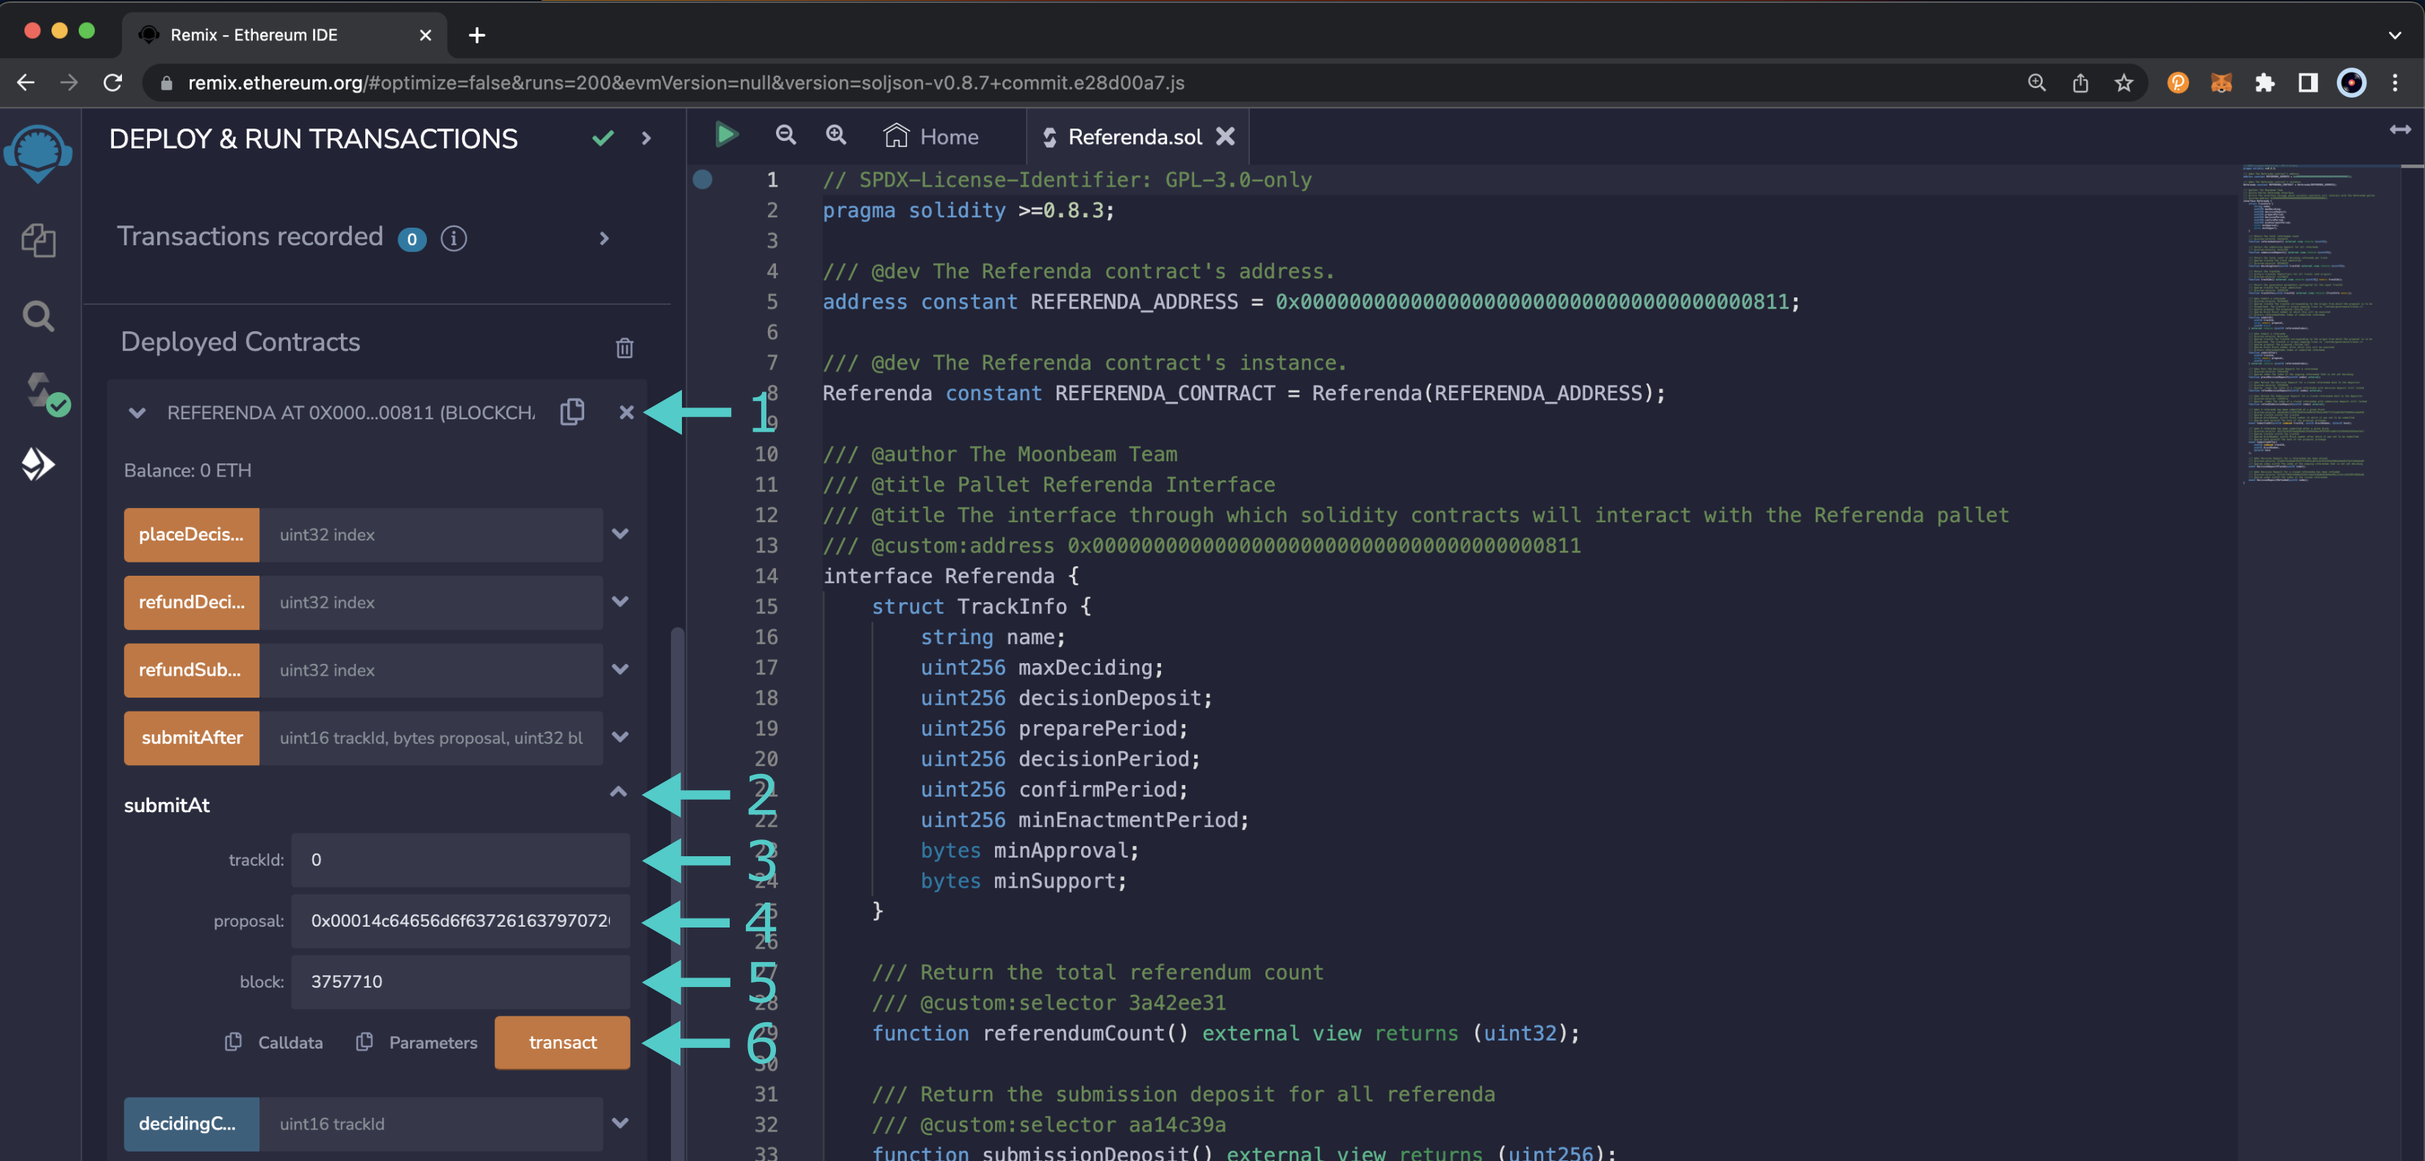
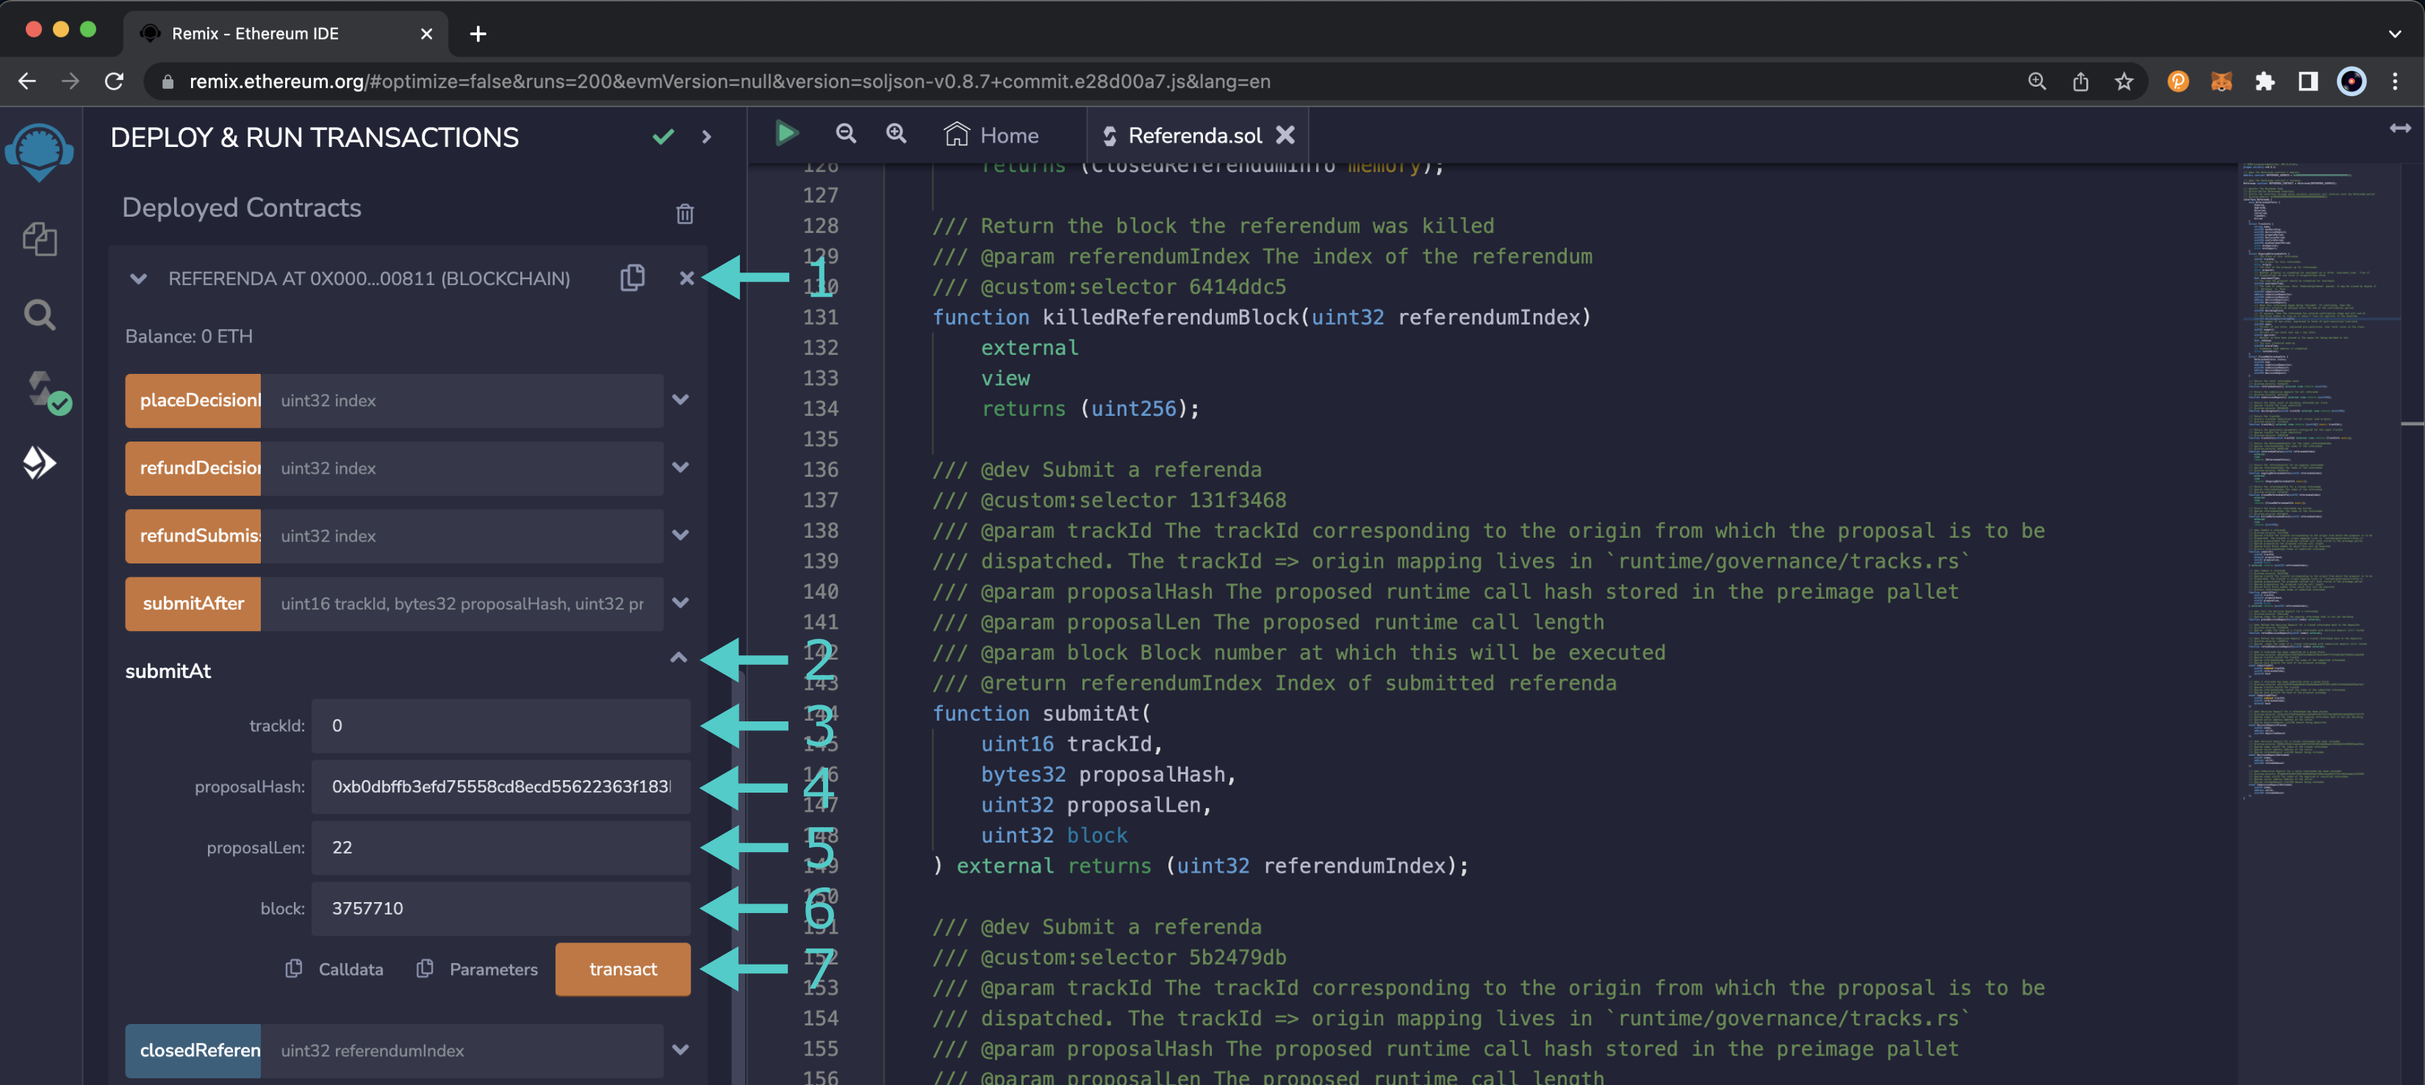
add in changes to opengov for runtime 2200

diff --git a/builders/pallets-precompiles/precompiles/referenda.md b/builders/pallets-precompiles/precompiles/referenda.md
@@ -34,21 +34,77 @@ The Referenda Precompile is located at the following address:
 [`Referenda.sol`](https://github.com/PureStake/moonbeam/blob/master/precompiles/referenda/Referenda.sol){target=_blank} is a Solidity interface that allows developers to interact with the precompile's methods. The methods are as follows:
 
 - **referendumCount**() - a read-only function that returns the total referendum count
-- **submissionDeposit**() - a read-only function that returns the Submission Deposit for all referenda
-- **decidingCount**(*uint16* trackId) - a read-only function that returns the total count of deciding referenda of a given track
-- **trackIds**() - a read-only function that returns a list of the Track IDs for all tracks (and origins)
-- **trackInfo**(*uint16* trackId) - a read-only function that returns the governance parameters configured for a given Track ID
-- **submitAt**(*uint16* trackId, *bytes memory* proposal, *uint32* block) - submits a referenda given a Track ID corresponding to the origin from which the proposal is to be dispatched, the proposed runtime call, and the block number *at* which this will be executed
-- **submitAfter**(*uint16* trackId, *bytes memory* proposal, *uint32* block) - submits a referenda given a Track ID corresponding to the origin from which the proposal is to be dispatched, the proposed runtime call, and the block number *after* which this will be executed
+- **submissionDeposit**() - a read-only function that returns the Submission Deposit required for each referendum
+- **decidingCount**(*uint16* trackId) - a read-only function that returns the total count of deciding referenda for a given Track
+- **trackIds**() - a read-only function that returns a list of the Track IDs for all Tracks (and Origins)
+- **trackInfo**(*uint16* trackId) - a read-only function that returns the following governance parameters configured for a given Track ID:
+
+     - *string* name - the name of the Track
+     - *uint256* maxDeciding - the maximum number of referenda that can be decided on at once
+     - *uint256* decisionDeposit - the amount of the Decision Deposit 
+     - *uint256* preparePeriod - the duration of the Prepare Period
+     - *uint256* decisionPeriod - the duration of the Decide Period
+     - *uint256* confirmPeriod - the duration of the Confirm Period
+     - *uint256* minEnactmentPeriod - the minimum amount of time the Enactment Period must be
+     - *bytes* minApproval - the minimum "Aye" votes as a percentage of overall Conviction-weighted votes needed for an approval
+     - *bytes* minSupport - minimum number of "Aye" votes, not taking into consideration Conviction-weighted votes, needed as a percent of the total supply needed for an approval
+
+- **referendumStatus**(*uint32* referendumIndex) - a read-only function that returns the status for a given referendum. The `ReferendumStatus` enum defines the possible statuses:
+
+     ```
+     enum ReferendumStatus {
+          Ongoing,
+          Approved,
+          Rejected,
+          Cancelled,
+          TimedOut,
+          Killed
+     }
+     ```
+
+- **ongoingReferendumInfo**(*uint32* referendumIndex) - a read-only function that returns the following information pertaining to an ongoing referendum:
+
+     - *uint16* trackId - the Track of this referendum
+     - *bytes* origin - the Origin for this referendum
+     - *bytes* proposal - the hash of the proposal up for referendum
+     - *bool* enactmentType - `true` if the proposal is scheduled to be dispatched *at* enactment time and `false` if *after* enactment time
+     - *uint256* enactmentTime - the time the proposal should be scheduled for enactment
+     - *uint256* submissionTime -  the time of submission
+     - *address* submissionDepositor - the address of the depositor for the Submission Deposit
+     - *uint256* submissionDeposit - the amount of the Submission Deposit
+     - *address* decisionDepositor - the address of the depositor for the Decision Deposit
+     - *uint256* decisionDeposit - the amount of the Decision Deposit
+     - *uint256* decidingSince - when this referendum entered the Decide Period. If confirming, then the end will actually be delayed until the end of the Confirm Period
+     - *uint256* decidingConfirmingEnd - when this referendum is scheduled to leave the Confirm Period as long as it doesn't lose its approval in the meantime
+     - *uint256* ayes - the number of "Aye" votes, expressed in terms of post-conviction lock-vote
+     - *uint32* support - percent of "Aye" votes, expressed pre-conviction, over total votes in the class
+     - *uint32* approval - percent of "Aye" votes over "Aye" and "Nay" votes
+     - *bool* inQueue - `true` if this referendum has been placed in the queue for being decided or `false` if not
+     - *uint256* alarmTime - the next scheduled wake-up
+     - *bytes* taskAddress - scheduler task address if scheduled
+
+- **closedReferendumInfo**(*uint32* referendumIndex) - a read-only function that returns the following information pertaining to a closed referendum:
+
+     - *uint256* end - when the referendum ended
+     - *address* submissionDepositor - the address of the depositor for the Submission Deposit
+     - *uint256* submissionDeposit - the amount of the Submission Deposit
+     - *address* decisionDepositor - the address of the depositor for the Decision Deposit
+     - *uint256* decisionDeposit - the amount of the Decision Deposit
+
+- **killedReferendumBlock**(*uint32* referendumIndex) - a read-only function that returns the block a given referendum was killed
+- **submitAt**(*uint16* trackId, *bytes32* proposalHash, *uint32* proposalLen, *uint32* block) - submits a referendum given a Track ID corresponding to the origin from which the proposal is to be dispatched, the preimage hash of the proposed runtime call, the length of the proposal, and the block number *at* which this will be executed. Returns the referendum index of the submitted referendum
+- **submitAfter**(*uint16* trackId, *bytes32* proposalHash, *uint32* proposalLen, *uint32* block) - submits a referendum given a Track ID corresponding to the origin from which the proposal is to be dispatched, the preimage hash of the proposed runtime call, the length of the proposal, and the block number *after* which this will be executed. Returns the referendum index of the submitted referendum
 - **placeDecisionDeposit**(*uint32* index) - posts the Decision Deposit for a referendum given the index of the going referendum
 - **refundDecisionDeposit**(*uint32* index) - refunds the Decision Deposit for a closed referendum back to the depositor given the index of the closed referendum in which the Decision Deposit is still locked
+- **refundSubmissionDeposit**(*uint32* index) - refunds the Submission Deposit for a closed referendum back to the depositor given the index of a closed referendum
 
 The interface also includes the following events:
 
-- **SubmittedAt**(*uint16 indexed* trackId, *uint32* blockNumber, *bytes32* hash) - emitted when a referenda has been submitted *at* a given block
-- **SubmittedAfter**(*uint16 indexed* trackId, *uint32* blockNumber, *bytes32* hash) - emitted when a referenda has been submitted *after* a given block
-- **DecisionDepositPlaced**(*uint32* index) - emitted when a Decision Deposit for a referendum has been placed
-- **DecisionDepositRefunded**(*uint32* index) - emitted when a Decision Deposit for a closed referendum has been refunded
+- **SubmittedAt**(*uint16 indexed* trackId, *uint32* referendumIndex, *bytes32* hash) - emitted when a referenda has been submitted *at* a given block
+- **SubmittedAfter**(*uint16 indexed* trackId, *uint32* referendumIndex, *bytes32* hash) - emitted when a referenda has been submitted *after* a given block
+- **DecisionDepositPlaced**(*uint32* index, *address* caller, *uint256* depositedAmount) - emitted when a Decision Deposit for a referendum has been placed
+- **DecisionDepositRefunded**(*uint32* index, *address* caller, *uint256* refundedAmount) - emitted when a Decision Deposit for a closed referendum has been refunded
+- **SubmissionDepositRefunded**(*uint32* index, *address* caller, *uint256* refundedAmount) - emitted whena Submission Deposit for a valid referendum has been refunded
 
 ## Interact with the Solidity Interface {: #interact-with-the-solidity-interface }
 
@@ -88,16 +144,19 @@ The below example is demonstrated on Moonbase Alpha, however, similar steps can 
 
 In order to submit a proposal, you should have already submitted the preimage hash for the proposal. If you have not done so, please follow the steps outlined in the [Preimage Precompile](/builders/pallets-precompiles/precompiles/preimage){target=_blank} documentation. There are two methods that can be used to submit a proposal: `submitAt` and `submitAfter`. The `submitAt` function submits a proposal to be executed *at* a given block and the `submitAfter` function submits a proposal to be executed *after* a specific block. For this example, `submitAt` will be used, but the same steps can be applied if you want to use `submitAfter` instead.
 
-To submit the proposal, you'll need to determine which Track your proposal belongs to and the Track ID of that Track. For help with these requirements, you can refer to the [Governance v2 section of the governance overview page](/learn/features/governance/#opengov){target=_blank}.
+To submit the proposal, you'll need to determine which Track your proposal belongs to and the Track ID of that Track. For help with these requirements, you can refer to the [OpenGov section of the governance overview page](/learn/features/governance/#opengov){target=_blank}.
 
-Once you have the Track ID and the encoded proposal, you can go ahead and submit the proposal using the Referenda Precompile. From Remix, you can take the following steps:
+You'll also need to make sure you have the preimage hash and the length of the preimage handy, both of which you should have received from following the steps in the [Preimage Precompile](/builders/pallets-precompiles/precompiles/preimage){target=_blank} documentation. If you're unsure, you can find your preimage from the [Preimage page of Polkadot.js Apps](https://polkadot.js.org/apps/?rpc=wss%3A%2F%2Fwss.api.moonbase.moonbeam.network#/preimages){target=_blank} and copy the preimage hash. To get the length of the proposal, you can then query the `preimage` pallet using the `preimageFor` method from the [Polkadot.js Apps Chain State page](https://polkadot.js.org/apps/?rpc=wss%3A%2F%2Fwss.api.moonbase.moonbeam.network#/chainstate){target=_blank}.
+
+Once you have the Track ID, preimage hash, and preimage length, you can go ahead and submit the proposal using the Referenda Precompile. From Remix, you can take the following steps:
 
 1. Expand the Referenda Precompile contract to see the available functions
 2. Find the **submitAt** function and press the button to expand the section
 3. Enter the track ID that your proposal will be processed through
-4. Enter the encoded proposal. You should have received this from following the steps in the [Preimage Precompile](/builders/pallets-precompiles/precompiles/preimage){target=_blank} documentation
-5. Enter the block you want the proposal to be executed at
-6. Press **transact** and confirm the transaction in MetaMask
+4. Enter the preimage hash. You should have received this from following the steps in the [Preimage Precompile](/builders/pallets-precompiles/precompiles/preimage){target=_blank} documentation
+5. Enter the length of the preimage
+6. Enter the block you want the proposal to be executed at
+7. Press **transact** and confirm the transaction in MetaMask
 
 ![Submit the proposal using the submitAt function of the Referenda Precompile.](/images/builders/pallets-precompiles/precompiles/referenda/referenda-4.png)
 

diff --git a/learn/features/governance.md b/learn/features/governance.md
@@ -196,7 +196,7 @@ Once the author is ready, they can submit their proposal on-chain. To do so, fir
 
 If a referendum meets the above criteria, it moves to the Decide Period and takes up one of the spots in its designated Track. In the Decide Period, voting continues and the referendum has a set amount of days to reach the Approval and Support requirements needed for it to progress to the Confirm Period.
 
-Once in the Confirm Period, a referendum must continuously meet the Approval and Support requirements for the duration of the period. If a referendum fails to meet the requirements at any point, it is returned to the Decide Period. If enough time is left in the Decide Period and the referendum meets the Approval and Support requirements again, it can progress to the Confirm Period again. If the Decide Period ends and not enough Approval and Support was received, the referendum will be rejected and the Decision Deposit will be returned. The proposal can be proposed again at any time.
+Once in the Confirm Period, a referendum must continuously meet the Approval and Support requirements for the duration of the period. If a referendum fails to meet the requirements at any point, it is returned to the Decide Period. If the referendum meets the Approval and Support requirements again, it can progress to the Confirm Period again and the Decide Period will be delayed until the end of the Confirm Period. If the Decide Period ends and not enough Approval and Support was received, the referendum will be rejected and the Decision Deposit will be returned. The proposal can be proposed again at any time.
 
 If a referendum continously receives enough Approval and Support during the Confirm Period, it will be approved and move to the Enactment Period. It will wait the duration of the Enactment Period before it gets dispatched.
 

diff --git a/tokens/governance/voting/opengov-voting.md b/tokens/governance/voting/opengov-voting.md
@@ -132,7 +132,7 @@ In the following image, you'll notice enough Approval and Support have been rece
 
 ![View the Approval and Support curves for a referendum on Polkadot.js Apps.](/images/tokens/governance/voting/v2/vote-6.png)
 
-If the referendum doesn't continuously receive enough Approval and Support during the Confirm Period, and there is time left in the Decide Period, it still has a chance to pass as long as the Approval and Support requirements are met again and continously for the duration of the Confirm Period. If the Decide Period ends and the referendum still hasn't received enough Approval and Support, the referenda will be rejected and the Decision Deposit is able to be refunded.
+If the referendum doesn't continuously receive enough Approval and Support during the Confirm Period, it still has a chance to pass as long as the Approval and Support requirements are met again and continously for the duration of the Confirm Period. If a referendum enters the Confirm Period but the Decide Period is set to end before the Confirm Period is over, the Decide Period will actually be extended until the end of the Confirm Period. If the Decide Period ends and the referendum still hasn't received enough Approval and Support, the referendum will be rejected and the Decision Deposit is able to be refunded.
 
 The Enactment Period is defined by the author of the proposal at the time it was initially submitted, but it needs to be at least the minimum Enacment Period. 
 

diff --git a/builders/pallets-precompiles/precompiles/preimage.md b/builders/pallets-precompiles/precompiles/preimage.md
@@ -33,7 +33,7 @@ The Preimage Precompile is located at the following address:
 
 [`Preimage.sol`](https://github.com/PureStake/moonbeam/blob/master/precompiles/preimage/Preimage.sol){target=_blank} is a Solidity interface that allows developers to interact with the precompile's two methods:
 
-- **notePreimage**(*bytes memory* encodedPropsal) — registers a preimage on-chain for an upcoming proposal given the encoded proposal. This doesn't require the proposal to be in the dispatch queue but does require a deposit which is returned once enacted. Uses the [`notePreimage`](/builders/pallets-precompiles/pallets/preimage/#:~:text=notePreimage(encodedProposal)){target=_blank} method of the preimage pallet
+- **notePreimage**(*bytes memory* encodedPropsal) — registers a preimage on-chain for an upcoming proposal given the encoded proposal and returns the preimage hash. This doesn't require the proposal to be in the dispatch queue but does require a deposit which is returned once enacted. Uses the [`notePreimage`](/builders/pallets-precompiles/pallets/preimage/#:~:text=notePreimage(encodedProposal)){target=_blank} method of the preimage pallet
 - **unnotePreimage**(*bytes32* hash) - clears an unrequested preimage from storage given the hash of the preimage to be removed. Uses the [`unnotePreimage`](/builders/pallets-precompiles/pallets/preimage/#:~:text=notePreimage(hash)){target=_blank} method of the preimage pallet
 
 The interface also includes the following events:

diff --git a/builders/pallets-precompiles/precompiles/conviction-voting.md b/builders/pallets-precompiles/precompiles/conviction-voting.md
@@ -63,7 +63,7 @@ Each of these functions have the following parameters:
 
 The interface also includes the following events:
 
-- **Voted**(*uint32 indexed* pollIndex, *address* voter, *bool* aye, *uint256* amount) - emitted when an account makes a vote
+- **Voted**(*uint32 indexed* pollIndex, *address* voter, *bool* aye, *uint256* voteAmount, *uint8* conviction) - emitted when an account makes a vote
 - **VoteRemoved**(*uint32 indexed* pollIndex, *address* voter) - emitted when an account's (`voter`) vote has been removed
 - **VoteRemovedOther**(*uint32 indexed* pollIndex, *address* caller, *address* target, *uint16* trackId) - emitted when an account (`caller`) removed a vote for another account (`target`)
 - **Delegated**(*uint16 indexed* trackId, *address* from, *address* to, *uint256* delegatedAmount, *uint8* conviction) - emitted when an account (`from`) delegates a Conviction-weighted vote of a given amount to another account (`to`)
